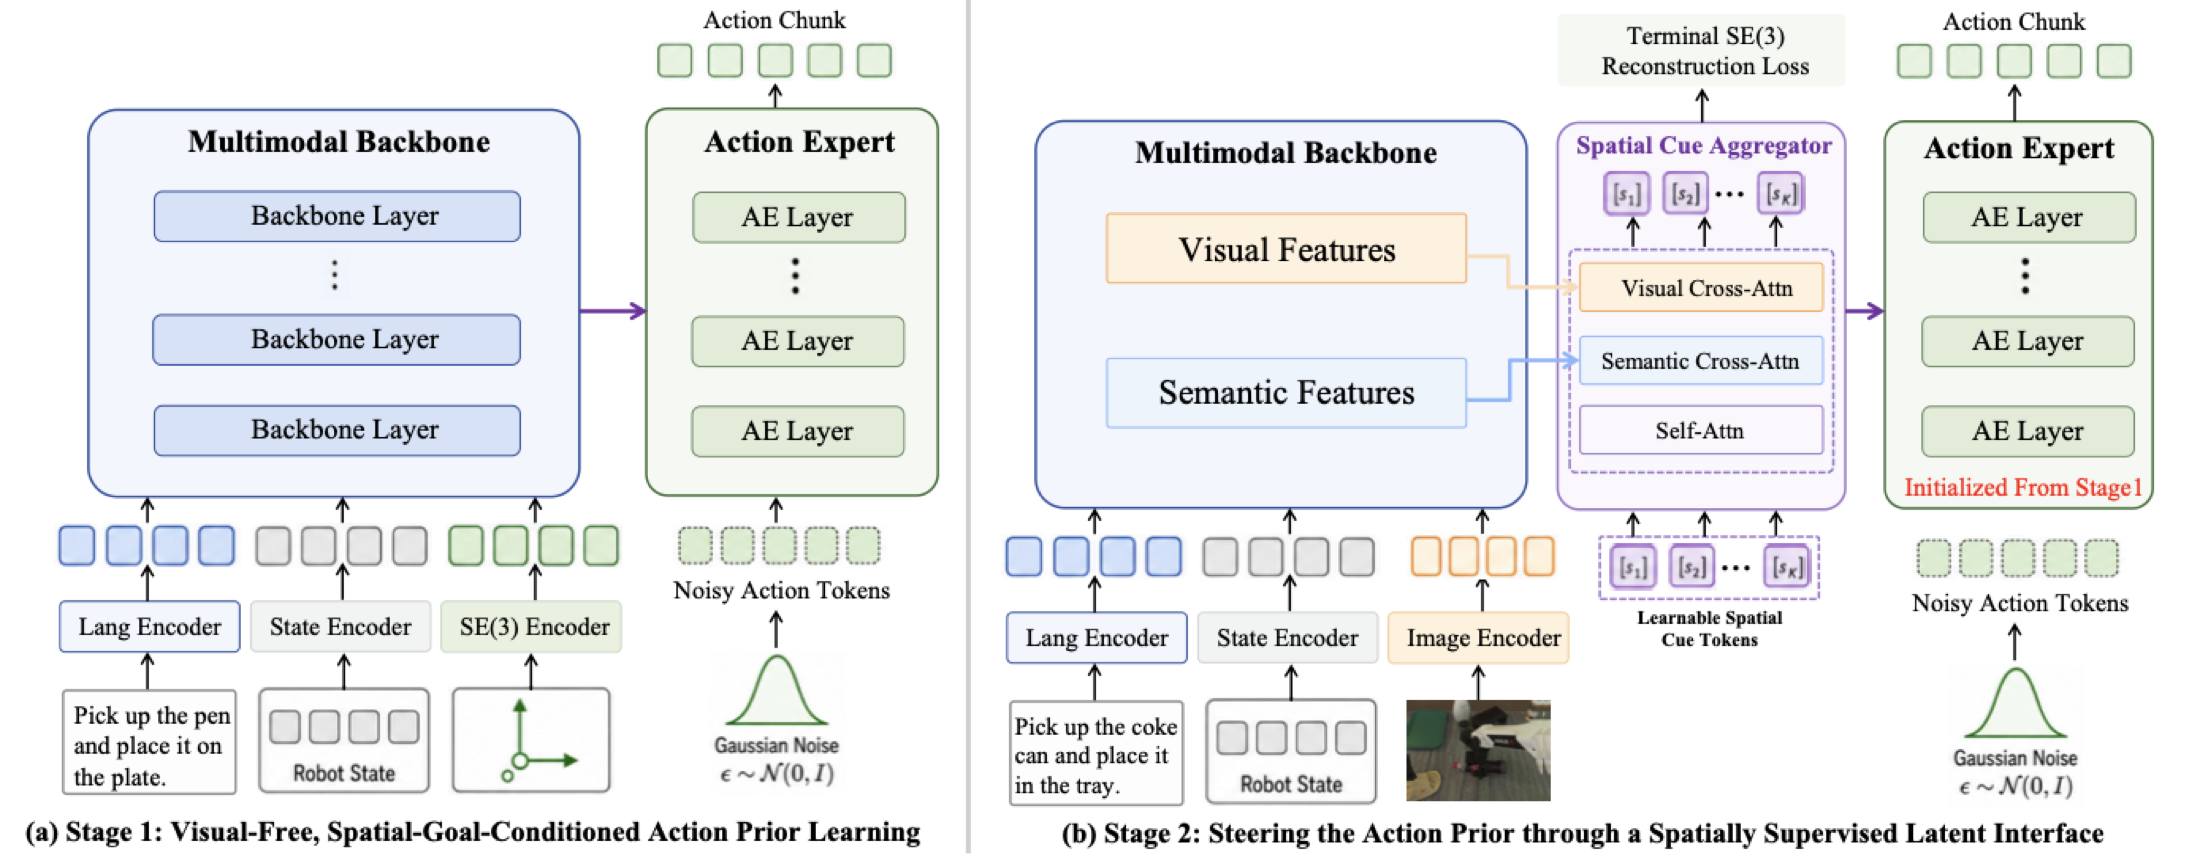
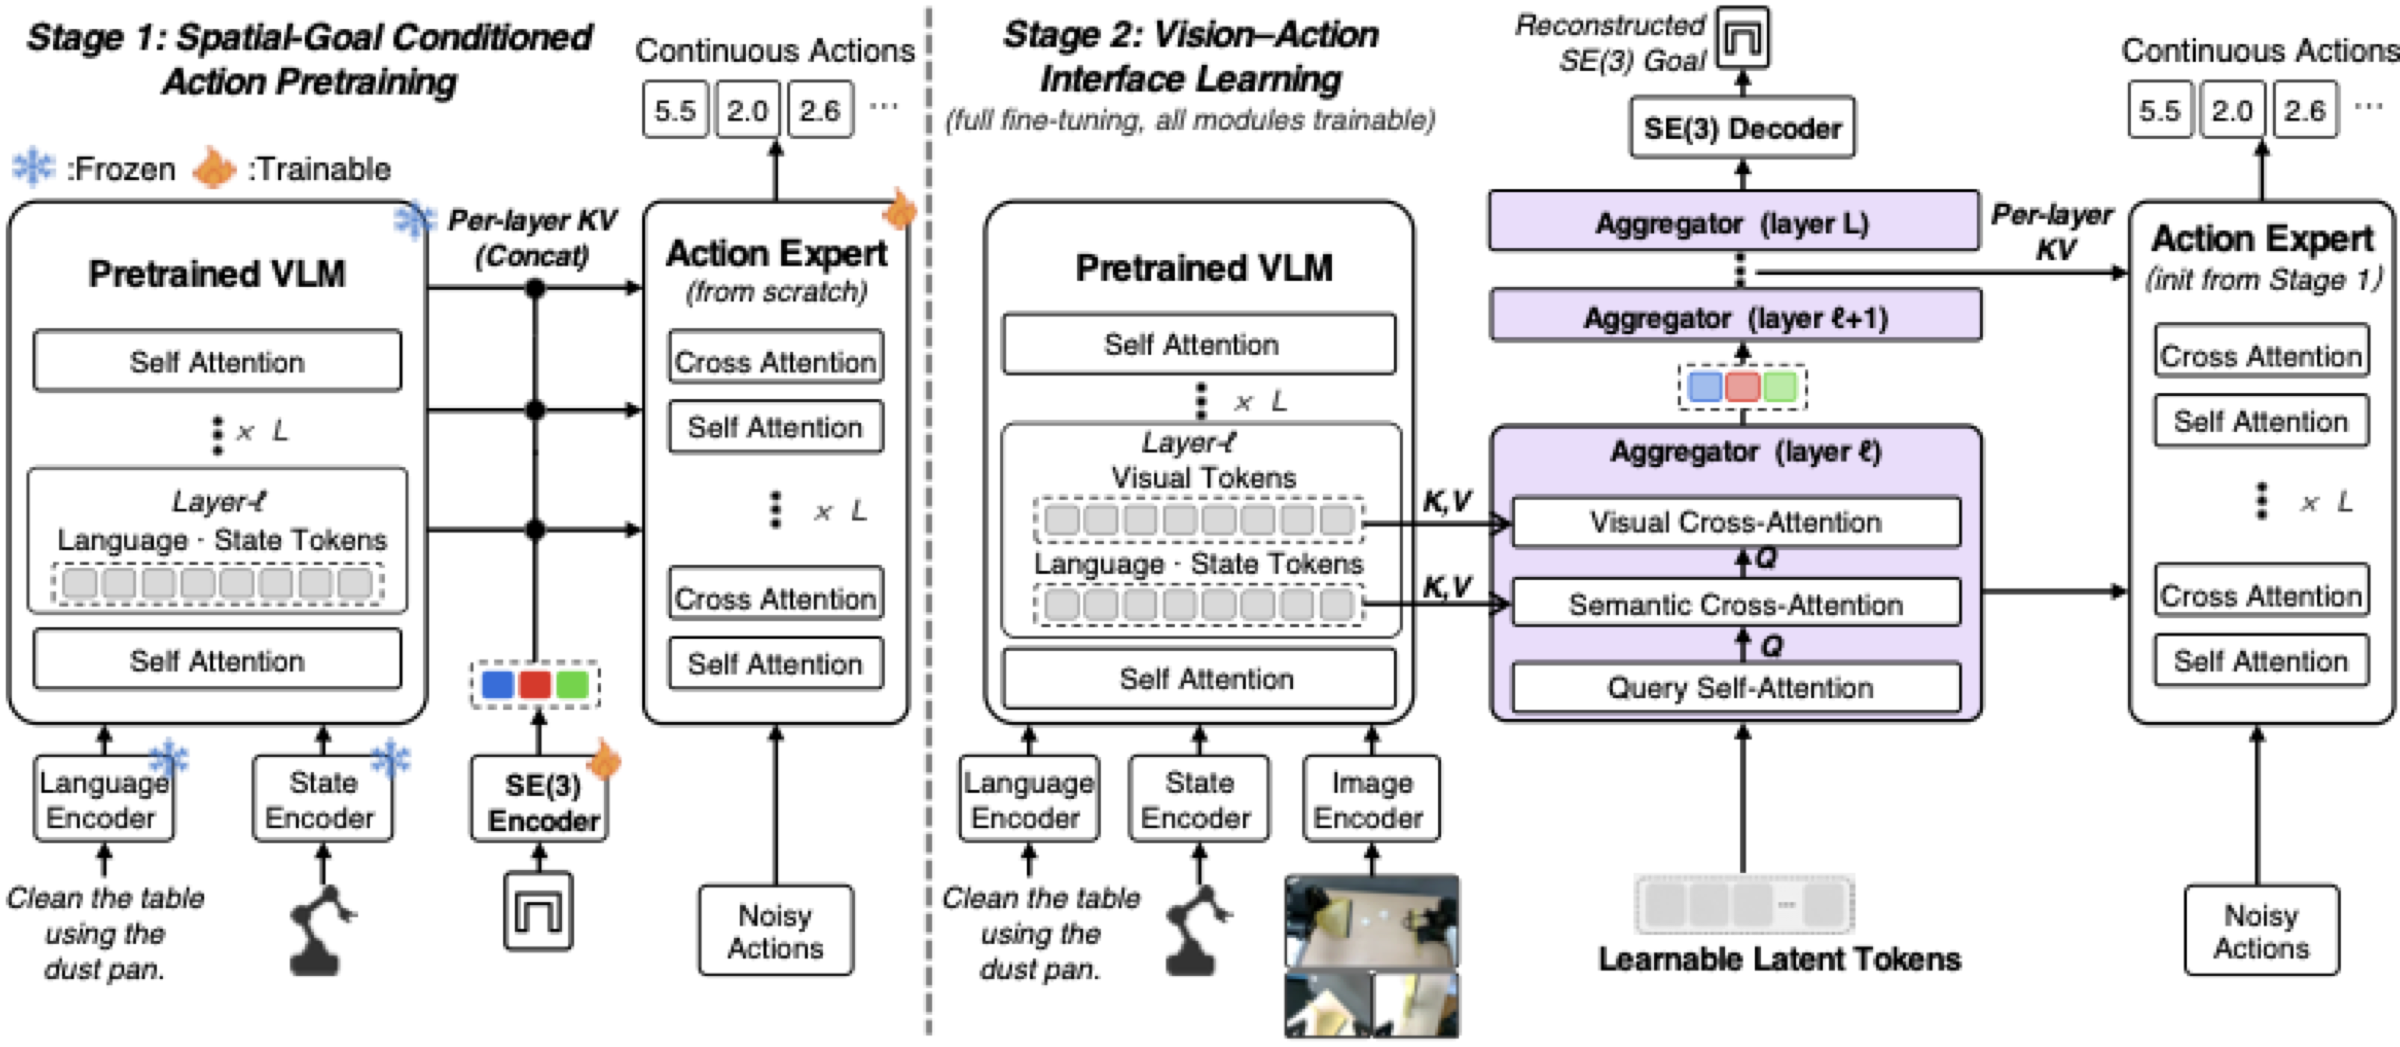
Project page: single column, justified text, new Fig. 1 and framework figure
One 960px column for everything so edges line up; title no longer breaks at
the en dash; affiliations on their own lines; body paragraphs justified.
Adds the motivation figure (Fig. 1) and replaces the framework figure with
Framework_v115.

Claude-Session: https://claude.ai/code/session_014YX7rFPfkjV8fk1JcrXtU4

diff --git a/docs/index.html b/docs/index.html
@@ -68,8 +68,10 @@ section { padding:44px 0; border-top:1px solid var(--rule); }
 section.tight { padding-top:28px; }
 h2 { font-family:var(--f-display); font-weight:500; font-size:28px; line-height:1.2; letter-spacing:-0.01em; margin:0 0 6px; }
 .kicker { font-size:10.5px; font-weight:600; letter-spacing:.13em; text-transform:uppercase; color:var(--faint); margin:0 0 10px; }
-p { margin:0 0 16px; max-width:76ch; color:var(--ink-2); }
+p { margin:0 0 16px; color:var(--ink-2); }
+section p, figcaption { text-align:justify; hyphens:auto; -webkit-hyphens:auto; }
 p.lead { color:var(--ink); font-size:17px; }
+.nb { white-space:nowrap; }
 section p:last-child { margin-bottom:0; }
 strong { color:var(--ink); font-weight:600; }
 .center p { margin-left:auto; margin-right:auto; }
@@ -140,8 +142,8 @@ footer a { color:var(--muted); }
 <header class="hero">
   <div class="wrap">
     <p class="venue">Under review</p>
-    <h1>Breaking the Vision&ndash;Action Shortcut
-      <span class="sub">Latent Interface Training for Generalizable Robot Foundation Models</span>
+    <h1>Breaking the <span class="nb">Vision&ndash;Action Shortcut</span>
+      <span class="sub">Latent Interface Training for<br>Generalizable Robot Foundation Models</span>
     </h1>
     <p class="authors">
       <a href="#">Jianman Lin</a><sup>1,&lowast;</sup>&ensp;
@@ -149,7 +151,7 @@ footer a { color:var(--muted); }
       <a href="#">Zhongyi Luo</a>&ensp;
       <a href="#">Jiafei Duan</a><sup>2,&dagger;</sup>
     </p>
-    <p class="affil"><sup>1</sup>School of Future Technology, South China University of Technology&ensp;&middot;&ensp;<sup>2</sup>National University of Singapore</p>
+    <p class="affil"><sup>1</sup>School of Future Technology, South China University of Technology<br><sup>2</sup>National University of Singapore</p>
     <p class="notes">&lowast; equal co-first contribution &ensp; &dagger; corresponding author</p>
     <nav class="links">
       <a href="static/paper/LIT.pdf">
@@ -166,7 +168,7 @@ footer a { color:var(--muted); }
   </div>
 </header>
 
-<div class="wrap-wide teaser">
+<div class="wrap teaser">
   <figure>
     <video autoplay muted loop playsinline controls preload="metadata" poster="static/images/realrobot_envs.png">
       <source src="static/video/realworld_01.mp4" type="video/mp4">
@@ -182,6 +184,15 @@ footer a { color:var(--muted); }
     <p class="lead">Robot foundation models achieve strong in-distribution performance but often degrade under visual distribution shifts. When learning to generate actions from pretrained visual representations, models may exploit task-irrelevant visual cues that correlate with demonstrated actions within the training distribution. Such <strong>vision&ndash;action shortcuts</strong> can undermine generalization when these correlations change under distribution shifts. Mitigating these shortcuts requires constraining how visual information is used for action generation while preserving task-relevant spatial information.</p>
     <p>We propose <strong>Latent Interface Training (LIT)</strong>, a framework-agnostic two-stage strategy that first establishes a spatial-goal-conditioned action prior without images, then constrains visual conditioning through a pose-supervised latent interface. Stage&nbsp;1 trains the action expert to generate action chunks conditioned on language, robot state, and each demonstrated chunk&rsquo;s terminal SE(3) end-effector pose, learning goal-directed action generation independently of visual cues. Stage&nbsp;2 introduces a latent interface that aggregates visual and semantic representations and serves as the pretrained action expert&rsquo;s only visual conditioning pathway. The interface is supervised to reconstruct the terminal pose previously used to condition Stage&nbsp;1, encouraging it to retain the goal-relevant spatial information needed for action generation.</p>
     <p>Across four vision&ndash;language&ndash;action and world&ndash;action architectures&mdash;&pi;<sub>0.5</sub>, MolmoAct2, FAST-WAM, and ImageWAM&mdash;LIT improves overall LIBERO-Plus success by <strong>3.88&ndash;10.71 percentage points</strong> while preserving or improving average LIBERO success. Real-world evaluations show <strong>13.3&ndash;16.7 percentage-point gains</strong> in success aggregated across three tasks under unseen camera configurations, lighting variations, and distractors.</p>
+  </section>
+
+  <section id="motivation">
+    <p class="kicker">Motivation</p>
+    <h2>The vision&ndash;action shortcut</h2>
+    <figure>
+      <img src="static/images/motivation.png" alt="The vision–action shortcut: action experts conditioned on visual representations can rely on task-irrelevant visual cues, and LIT constrains visual conditioning through a pose-supervised latent interface.">
+      <figcaption><b>The vision&ndash;action shortcut.</b> Action experts conditioned directly on visual representations can rely on task-irrelevant visual cues that correlate with demonstrated actions; LIT constrains visual conditioning through a pose-supervised latent interface.</figcaption>
+    </figure>
   </section>
 
   <section id="method">
